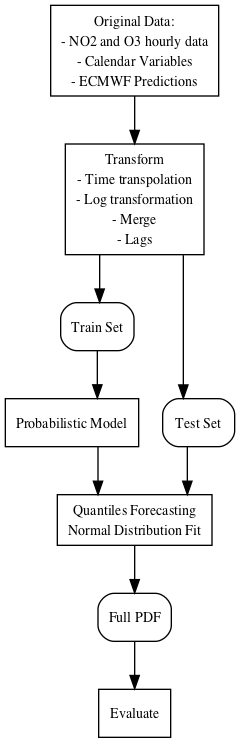
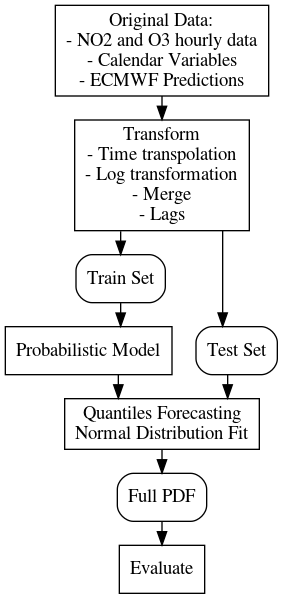
Removed hours after 2013 as predictor

Changed region(s): [[0.0, 0.0, 0.9917, 1.0]]

diff --git a/perez2018probabilistic.tex b/perez2018probabilistic.tex
@@ -9,7 +9,7 @@
 \usepackage{xspace}
 \usepackage{booktabs}
 \usepackage[draft,inline,nomargin]{fixme}
-\usepackage{makecell}
+\usepackage{makecell} 
 
 \journal{Environment International}
 
@@ -144,6 +144,7 @@ quantile random forests and quantile gradient boosted trees.
 
 % We will compare the different algorithms through the CRPS metric for the 
 % distribution and the RMSE, MAE, correlation and bias for the quantile 50.
+\fxnote{Add reference to crps}
 
 \section{Data description and experimental design}
 
@@ -191,7 +192,7 @@ distribution which helps with linear models like the linear quantile
 regression.
 
 The time series for this station consists of hourly measured values of
-the concentrations of NO\textsubscript{2} from 01/01/2000 to
+the concentrations of NO\textsubscript{2} from 01/01/2013 to
 30/11/2017. These values exhibit a clear intraday pattern, in which
 the higher values are located in two peaks around the morning and
 evening (with highest average value around 19h) while the nightly
@@ -239,19 +240,12 @@ models.
 \subsection{ECMWF numerical pollution prediction}
 \label{sec:ecmwf-numer-poll}
 
-\begin{figure}
-  \centering
-  \includegraphics[width=0.4\textwidth]{camspoints}
-  \label{figure:camspoints}
-  \caption{Location of the points with predicted pollution from CAMS.}
-\end{figure}
-
 The European Centre for Medium-Range Weather Forecasts (ECMWF)
 implements the Copernicus Atmosphere Monitoring Service.  This service
 delivers a daily production of near-real-time European air quality
 analyses and forecasts with a multi-model ensemble system. Although
-these forecasts are a very good starting point, as can be seen in
-Figure \ref{figure:camspoints}, the resolution of the model is large
+these forecasts are a very good starting point, 
+the resolution of the model is 10km
 and hence it is not expected to be capable of modelling the local
 urban effects of the NO\textsubscript{2} series under study.
 
@@ -265,12 +259,6 @@ return from holidays), school holidays\ldots We will also use as
 inputs to the models past values of this variables (up to 3 days
 before).
 
-%\subsection{Hours since 2013}
-
-In order to ease the modelling of the trend present in the series, we
-will also use as a predictor the number of hours since
-2013. \fxnote{How is it from 2013 and not from 2010?}
-
 \subsection{Experimental Design}
 \label{sec:experimental-design}
 
@@ -278,8 +266,7 @@ will also use as a predictor the number of hours since
   \centering
   \includegraphics[width=0.15\textwidth]{diagrams/flow}
   \caption{\label{figure:dataflow}Data flow of the
-    experiments. \fxnote{Would it be possible to reduce the height of
-      the graphic using shorter arrows?}}
+    experiments.}
 \end{figure}
 
 As a summary, we use the following predictors: NO\textsubscript{2}
